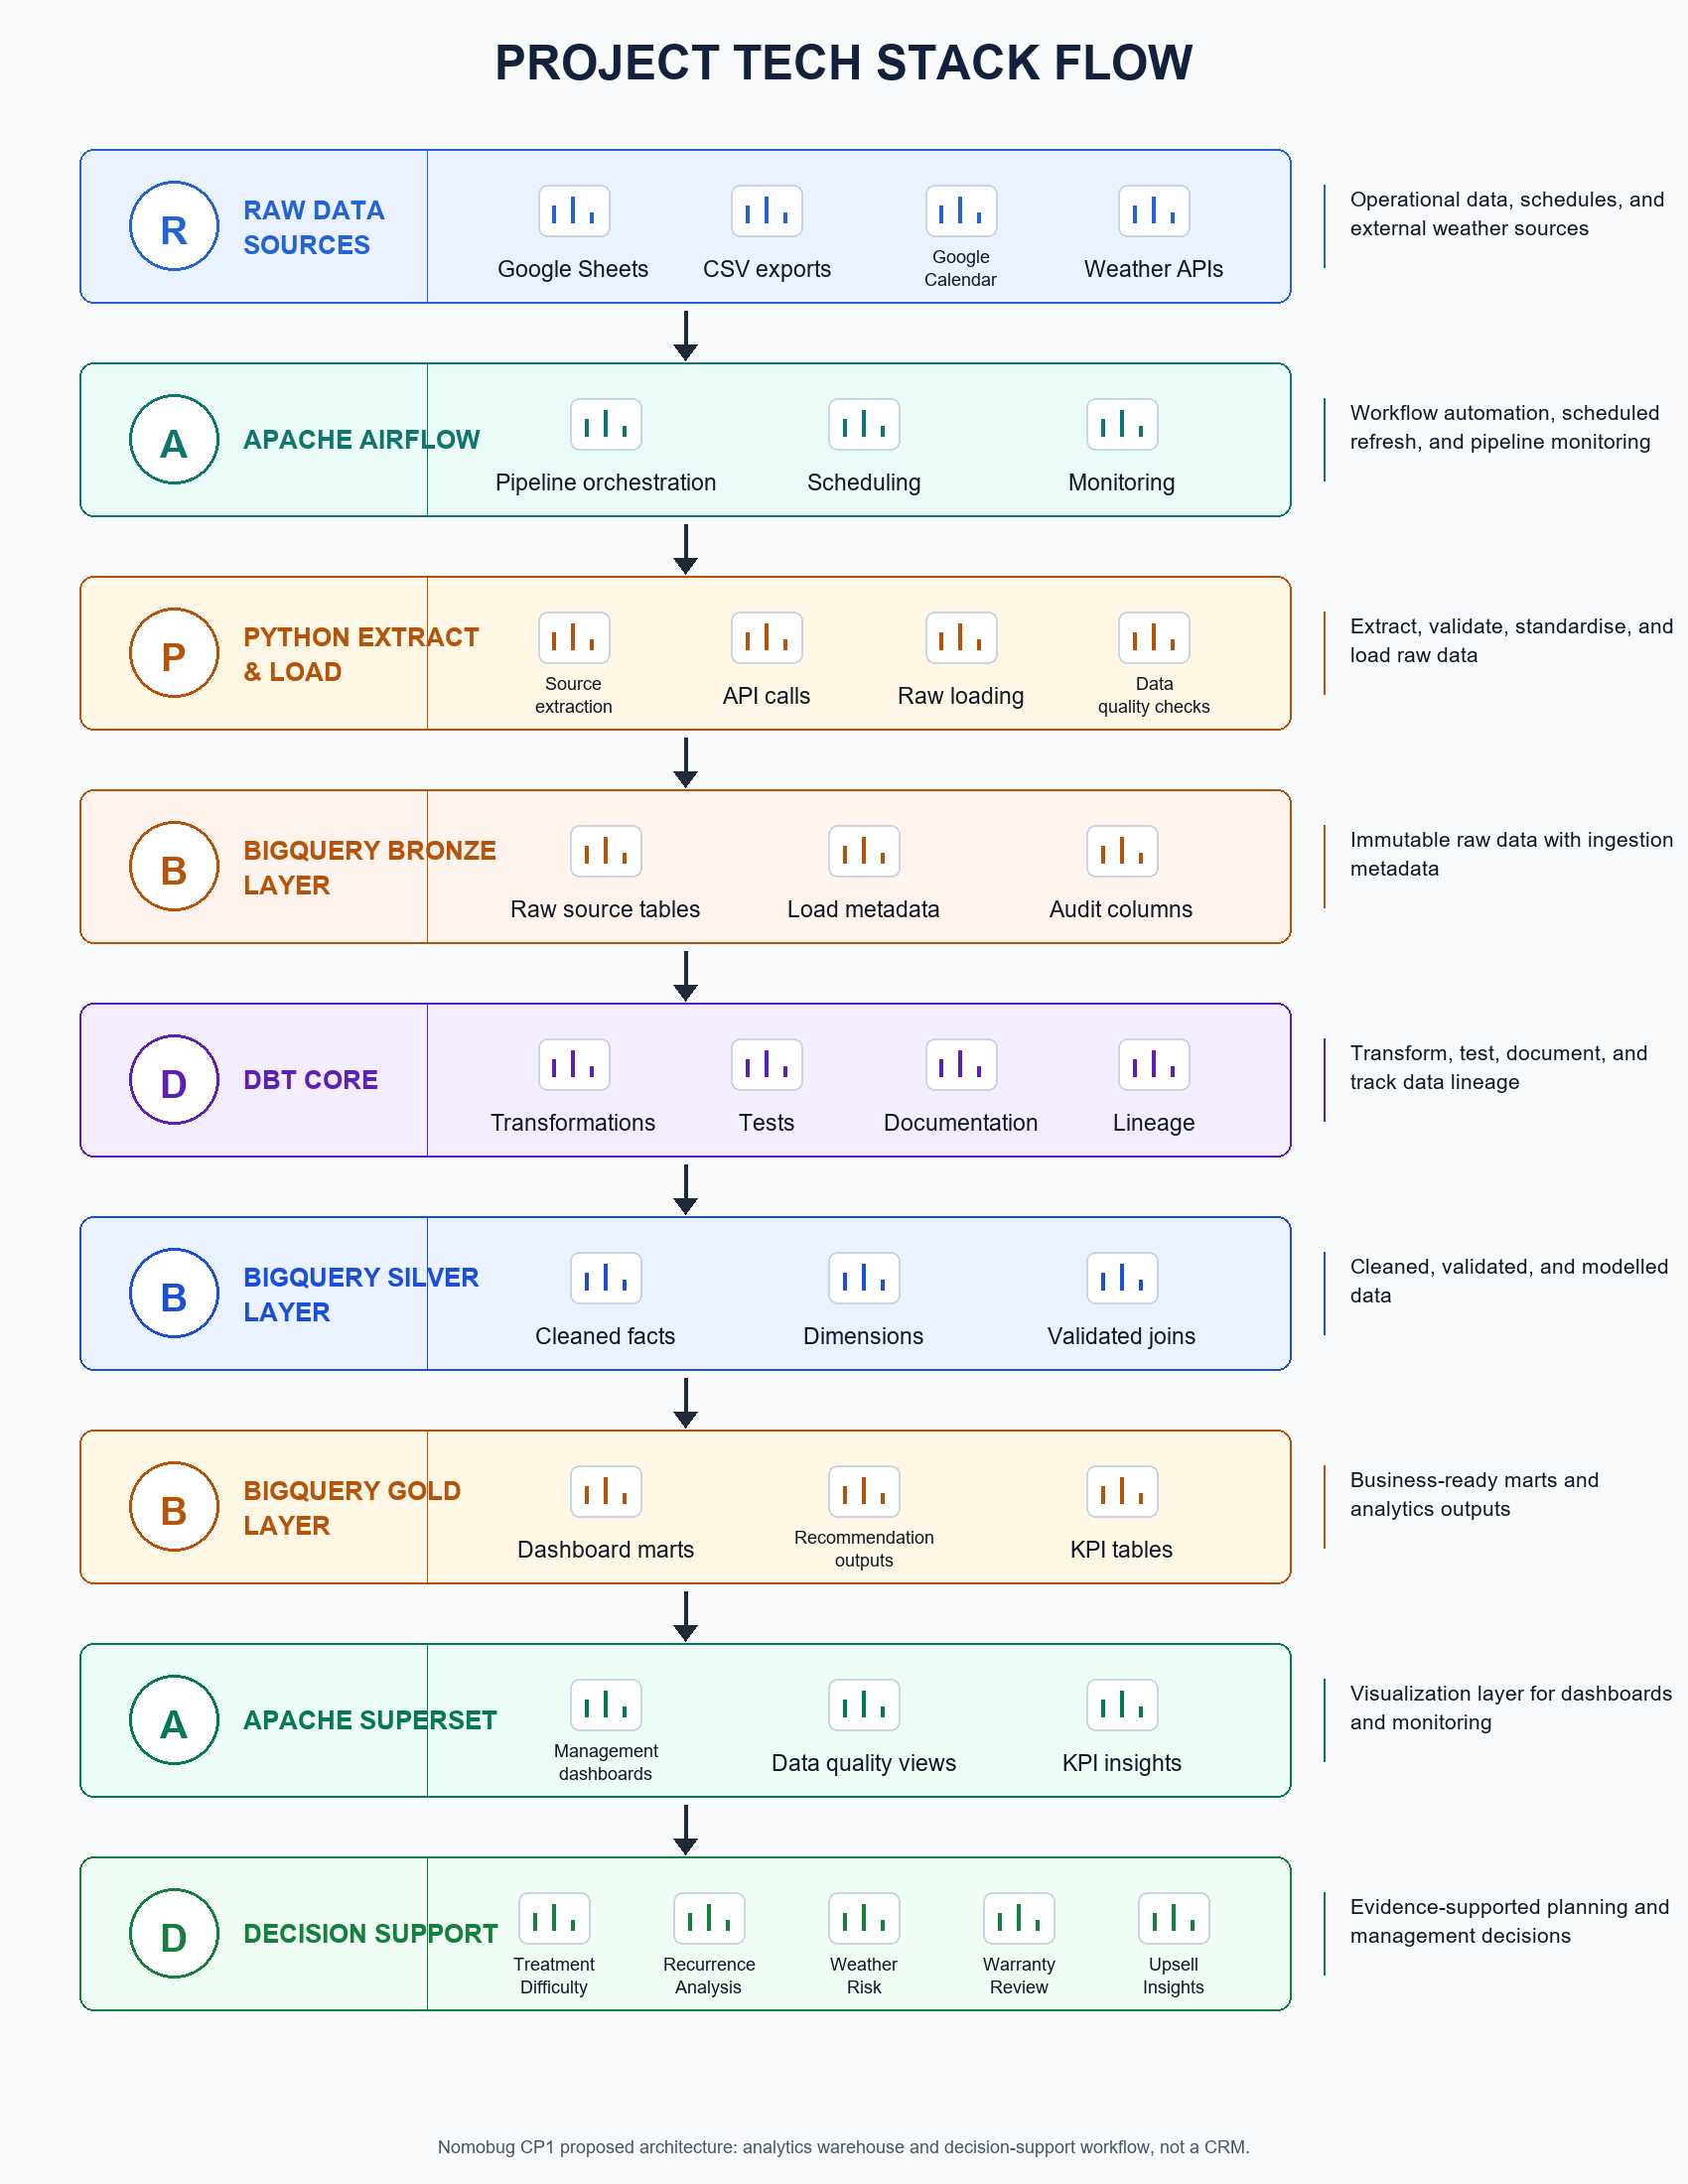
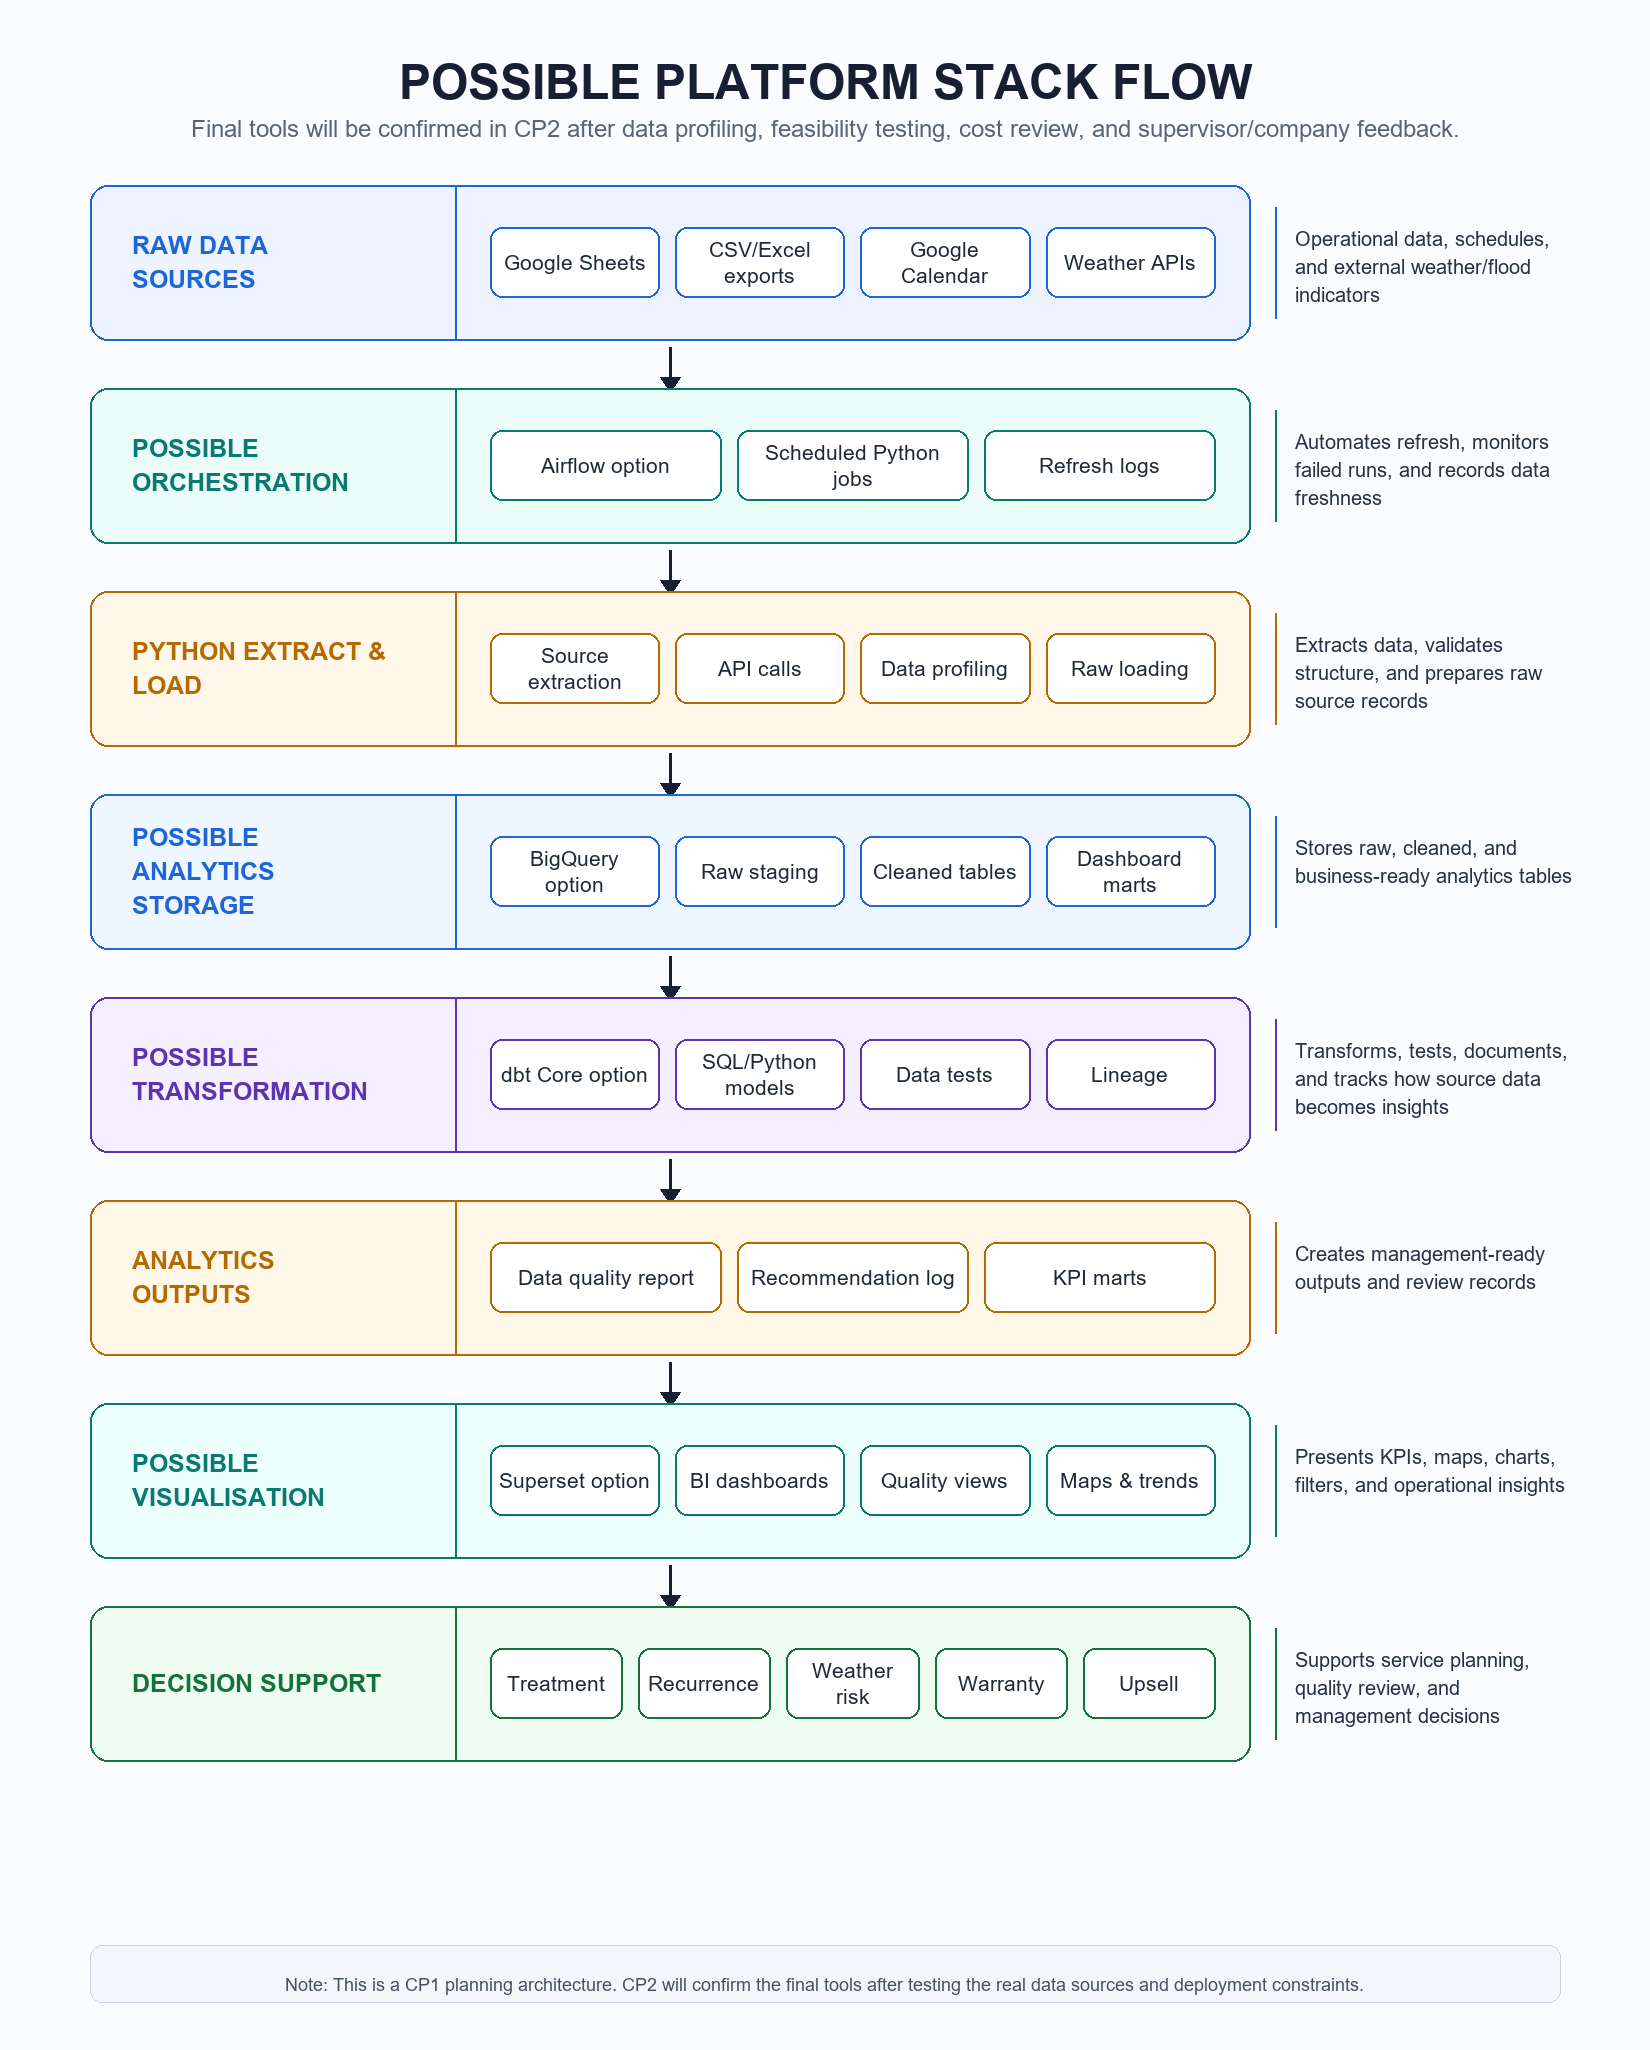
Make CP1 proposal platform flexible

diff --git a/PROJECT_BRIEF.md b/PROJECT_BRIEF.md
@@ -4,13 +4,13 @@
 
 **Weather-Aware Pest Control Decision-Support Dashboard**
 
-Using Airflow-orchestrated ELT, BigQuery, dbt Core, spatial hotspot detection, treatment difficulty analytics, and prescriptive intelligence for Nomobug Pest Control Services.
+Using a possible ELT/data engineering workflow, spatial hotspot detection, treatment difficulty analytics, and prescriptive intelligence for Nomobug Pest Control Services.
 
 ## CP1 and CP2 Boundary
 
 This project is currently in **Capstone Project 1 (CP1)**. CP1 focuses on the proposal, problem analysis, literature review, methodology, architecture design, work plan, expected outcomes, and evaluation plan.
 
-The actual system implementation will be carried out in **Capstone Project 2 (CP2)**. CP2 will involve building the Airflow-orchestrated ELT pipeline, BigQuery warehouse, dbt transformations and tests, Superset dashboards, analytics scripts, and evaluation with company users.
+The actual system implementation will be carried out in **Capstone Project 2 (CP2)**. CP2 will involve building the data extraction pipeline, analytics storage layer, transformation and testing logic, dashboards, analytics scripts, and evaluation with company users. Tools such as Airflow, BigQuery, dbt Core, Superset, Docker, and Ollama are possible platform choices, not fixed decisions at CP1 stage.
 
 ## Project Purpose
 
@@ -29,19 +29,23 @@ Google Sheets / CSV / Google Calendar
 Python Extract/Load Pipeline
         |
         v
-Apache Airflow Orchestration
+Possible Orchestration
+Airflow or scheduled Python jobs
         |
         v
-BigQuery Bronze Raw Tables
+Possible Analytics Storage
+BigQuery or another warehouse/database
         |
         v
-dbt Core Transformations and Tests
+Possible Transformations and Tests
+dbt Core or SQL/Python scripts
         |
         v
-BigQuery Silver Clean Tables and Gold Marts
+Cleaned Tables and Dashboard Marts
         |
         v
-Apache Superset Dashboards
+Possible BI Dashboards
+Superset or another BI tool
         |
         v
 Management Decision Support
@@ -50,40 +54,40 @@ Management Decision Support
 Future extension:
 
 ```text
-BigQuery analytics outputs
+Analytics outputs
         |
         v
-Local Ollama AI service
+Possible local AI explanation service
         |
         v
 Recommendation log and dashboard explanations
 ```
 
-## Main Technology Stack
+## Possible Platform Stack
 
 | Layer | Technology | Purpose |
 |---|---|---|
 | Raw data source | Google Sheets, CSV/Excel, Google Calendar | Company records and scheduling data |
-| Extract/load | Python, Pandas, BigQuery client | Extract Google Sheets, Calendar, weather APIs, and load Bronze tables |
-| Orchestration | Apache Airflow | Schedule, monitor, retry, and log pipeline tasks |
-| Data warehouse | BigQuery | Store Bronze raw, Silver cleaned, and Gold dashboard mart tables |
-| Transformation and tests | dbt Core | SQL transformations, tests, documentation, and lineage |
-| Dashboard | Apache Superset | Browser-based BI dashboards and filters |
-| Deployment support | Docker | Reproducible local services such as Superset, Python worker, and future Ollama |
-| Future AI | Ollama | Local AI-generated explanations and recommendations without paid API cost |
+| Extract/load | Python and Pandas | Extract Google Sheets, Calendar, weather APIs, and load raw staging tables |
+| Orchestration | Possible Apache Airflow or scheduled Python jobs | Schedule, monitor, retry, and log pipeline tasks if needed |
+| Analytics storage | Possible BigQuery or another analytics warehouse/database | Store raw, cleaned, and dashboard mart tables |
+| Transformation and tests | Possible dbt Core or SQL/Python scripts | SQL transformations, tests, documentation, and lineage |
+| Dashboard | Possible Apache Superset or another BI tool | Browser-based BI dashboards and filters |
+| Deployment support | Possible Docker setup | Reproducible local services if selected during CP2 |
+| Future AI | Possible local AI model such as Ollama | Local AI-generated explanations and recommendations without paid external API cost |
 
-## BigQuery Storage Design
+## Proposed Analytics Storage Design
 
-The data warehouse will use three layers:
+The analytics storage design will use three logical layers. BigQuery is one possible platform, but the final storage choice will be confirmed in CP2 after feasibility testing.
 
 1. **Staging tables**
-   Raw imported data from Google Sheets, CSV/Excel, Google Calendar, and weather sources. In the updated architecture this is the **Bronze** layer.
+   Raw imported data from Google Sheets, CSV/Excel, Google Calendar, and weather sources.
 
 2. **Cleaned core tables**
-   Standardised customer, service, warranty, refund, payment, upsell, area, pest, and calendar records. In the updated architecture this is the **Silver** layer.
+   Standardised customer, service, warranty, refund, payment, upsell, area, pest, and calendar records.
 
 3. **Analytics marts**
-   Dashboard-ready tables for area risk, treatment difficulty, recurrence windows, hotspot detection, upsell package fit, data quality, refresh status, and recommendations. In the updated architecture this is the **Gold** layer.
+   Dashboard-ready tables for area risk, treatment difficulty, recurrence windows, hotspot detection, upsell package fit, data quality, refresh status, and recommendations.
 
 ## Key Data Relationships
 
@@ -176,13 +180,13 @@ This helps the company understand whether dashboard insights are based on strong
 
 ## Scheduled Refresh
 
-The proposed system will use near-real-time scheduled refresh, not streaming real-time processing. Apache Airflow will be used in CP2 to orchestrate the main extraction, loading, dbt transformation, data test, weather enrichment, and refresh logging tasks.
+The proposed system will use near-real-time scheduled refresh, not streaming real-time processing. In CP2, the refresh workflow may be handled using Apache Airflow, scheduled Python jobs, warehouse scheduled queries, or another suitable scheduler depending on setup complexity and supervisor/company feedback.
 
 Possible refresh options:
 
-- Airflow DAG
+- Airflow DAG if selected
 - scheduled Python extract/load task
-- dbt model/test run
+- transformation/model test run
 - manual refresh during prototype testing
 
 This is enough because the main business questions are based on day/week/month trends, not second-by-second operations.
@@ -222,15 +226,15 @@ The Recommendation Log will store:
 - management action taken
 - later outcome
 
-This prepares the project for future local AI using Ollama. The analytics engine will compute the score, and Ollama can later explain the recommendation in plain language.
+This prepares the project for future local AI support. The analytics engine will compute the score, and a local model such as Ollama can later explain the recommendation in plain language.
 
 ## Expected CP2 Deliverables
 
 - Python extract/load pipeline
-- Apache Airflow orchestration
-- dbt transformations, tests, documentation, and lineage
-- BigQuery Bronze, Silver, and Gold tables
-- Superset dashboards
+- possible orchestration workflow
+- transformations, tests, documentation, and lineage
+- raw, cleaned, and dashboard-ready analytics tables
+- BI dashboards
 - data quality dashboard
 - weather enrichment output
 - treatment difficulty index
@@ -242,4 +246,4 @@ This prepares the project for future local AI using Ollama. The analytics engine
 
 ## One-Sentence Description
 
-This project proposes a weather-aware pest control decision-support dashboard that uses company operational data, Airflow-orchestrated ELT, BigQuery, dbt Core, Python analytics, Superset visualisation, and future local AI recommendations to help Nomobug improve service planning, recurrence monitoring, treatment difficulty analysis, and upsell strategy.
+This project proposes a weather-aware pest control decision-support dashboard that uses company operational data, Python-based data processing, a possible analytics warehouse, BI visualisation, and future local AI recommendations to help Nomobug improve service planning, recurrence monitoring, treatment difficulty analysis, and upsell strategy.

diff --git a/PROJECT_STATE.md b/PROJECT_STATE.md
@@ -1,6 +1,6 @@
 # Nomobug Capstone Project State
 
-Last updated: 2026-07-16
+Last updated: 2026-07-17
 
 ## Current Phase
 
@@ -22,33 +22,35 @@ The goal is to help management understand:
 - data quality and refresh status
 - recommendation history and action outcomes
 
-## Confirmed Stack
+## Possible Platform Stack
+
+Supervisor feedback on 2026-07-17: the CP1 methodology should not lock the project into one fixed platform too early. BigQuery, Airflow, dbt Core, Docker, Superset, and Ollama are now described as possible platform choices. The final CP2 stack will be confirmed after data profiling, feasibility testing, cost/setup review, and supervisor/company feedback.
 
 | Layer | Choice |
 |---|---|
 | Raw source | Google Sheets, CSV/Excel exports, Google Calendar |
-| Extract/load | Python, Pandas, BigQuery client |
-| Orchestration | Apache Airflow |
-| Transformation and tests | dbt Core |
-| Warehouse | BigQuery with Bronze/Silver/Gold layers |
-| Visualization | Apache Superset |
+| Extract/load | Python and Pandas, with the relevant API/warehouse client |
+| Orchestration | Possible Apache Airflow, or scheduled Python jobs if simpler |
+| Transformation and tests | Possible dbt Core, or SQL/Python transformation scripts |
+| Analytics storage | Possible BigQuery, or another suitable analytics warehouse/database |
+| Visualization | Possible Apache Superset, or another BI/dashboard platform |
 | Weather history | Open-Meteo Historical Weather API |
 | Weather forecast | Open-Meteo forecast first, with data.gov.my/MET as official warning support |
 | Flood indicator | Public InfoBanjir/JPS where extraction is reliable, otherwise optional/manual |
-| Local AI future work | Ollama |
-| Packaging | Docker for local reproducibility, not as the main database |
+| Local AI future work | Possible local model such as Ollama |
+| Packaging | Possible Docker setup for local reproducibility, not as the main database |
 
 ## CP2 Build Order
 
 1. Profile Google Sheets, CSV exports, and calendar data.
 2. Define flexible data contracts, column aliases, and data quality rules.
-3. Build Python extraction/loading scripts into BigQuery Bronze raw tables.
-4. Build dbt models and tests for Silver cleaned tables and Gold dashboard marts.
+3. Build Python extraction/loading scripts into raw staging tables.
+4. Build transformation models and tests for cleaned tables and dashboard marts.
 5. Add area/postcode coordinate lookup and historical weather enrichment.
-6. Create Airflow DAGs to orchestrate extraction, loading, dbt, testing, enrichment, and refresh logs.
-7. Build Superset dashboards from Gold marts only.
+6. Create a scheduled workflow to orchestrate extraction, loading, transformations, testing, enrichment, and refresh logs.
+7. Build BI dashboards from curated marts only.
 8. Add pipeline logging, data quality dashboard, and recommendation log.
-9. Add optional local Ollama explanation layer.
+9. Add optional local AI explanation layer.
 
 ## Analytics Methods
 
@@ -70,13 +72,14 @@ The current proposal file is `docs/Nomobug_Capstone_Proposal_CP1_Updated.docx`.
 
 Latest checks:
 
-- Added a project technical stack flow figure into Chapter 3.
+- Added a possible platform stack flow figure into Chapter 3.
 - Added a CP2 Gantt chart subsection into Chapter 4.
 - Created editable CP1/CP2 Gantt workbook at `docs/Nomobug_CP1_CP2_Gantt_Chart.xlsx`.
 - Created architecture image at `assets/nomobug_project_tech_stack_flow.png`.
 - Canva generation was attempted but blocked by Canva quota, so the final visual was generated locally.
 - Standardized the proposal formatting to Times New Roman, 12 pt body text, 1.5 line spacing, justified body paragraphs, and APA-style references.
-- Revised the proposal so CP1 warehouse/data-source sections read as planned logical designs rather than final implemented schemas.
+- Revised the proposal so CP1 warehouse/data-source/tool sections read as planned logical designs rather than final implemented schemas.
+- Updated the methodology after supervisor feedback so BigQuery, Airflow, dbt Core, Docker, Superset, and Ollama are presented as possible platforms, not locked CP2 decisions.
 - Replaced confusing appendices with clearer planning appendices for data sources, dashboard outputs, and proposed logical warehouse layers.
 - Added more organic in-text citations in Chapter 1 and strengthened citation support for BI, dashboards, data quality, weather-associated risk, and DSS significance.
 - 42 total reference entries after adding Airflow/dbt technical references.
@@ -88,10 +91,10 @@ Latest checks:
 Latest data-engineering direction:
 
 - Keep the existing proposal title.
-- Strengthen the methodology around an Airflow-orchestrated ELT pipeline.
-- Use Python for extraction/loading, BigQuery for the warehouse, dbt Core for SQL transformations/tests/lineage, and Superset for Gold-mart dashboards.
+- Strengthen the methodology around an ELT/data engineering pipeline, while keeping platform choices flexible for CP2.
+- Use Python for extraction/loading and evaluate possible platforms for orchestration, storage, transformations, dashboards, and local AI during CP2.
 - Use flexible data contracts rather than strict schema rejection because the company data is messy.
-- Include pipeline logs: `etl_run_log`, `source_contract_status`, `data_quality_log`, `record_match_log`, `weather_enrichment_log`, `dbt_test_results`, and `mart_refresh_status`.
+- Include pipeline logs such as `etl_run_log`, `source_contract_status`, `data_quality_log`, `record_match_log`, `weather_enrichment_log`, transformation test results, and `mart_refresh_status`.
 
 ## Latest Logbook Status
 
@@ -102,7 +105,7 @@ Latest checks:
 - Logbook updated through Week 10.
 - Week 10 updated with the CP1/CP2 Gantt workbook and project technical stack flow diagram preparation.
 - Week 1-4 date ranges corrected to May 2026.
-- Week 5-10 entries added as a natural progression from CRM exploration to analytics, data understanding, calendar parsing, weather research, architecture selection, proposal strengthening, and Airflow/dbt data-engineering scope.
+- Week 5-10 entries added as a natural progression from CRM exploration to analytics, data understanding, calendar parsing, weather research, architecture selection, proposal strengthening, and data-engineering scope.
 - Word export check passed after the latest update.
 
 ## Important Wording Rules
@@ -148,7 +151,7 @@ Commit:
 - `docs/Nomobug_Capstone_Proposal_CP1_Updated.docx`: current CP1 proposal
 - `docs/Logbook_Template.docx`: current CP1 logbook updated through Week 10
 - `docs/Nomobug_CP1_CP2_Gantt_Chart.xlsx`: editable CP1 and CP2 Gantt workbook
-- `assets/nomobug_project_tech_stack_flow.png`: project technical stack flow image used in the report
+- `assets/nomobug_project_tech_stack_flow.png`: possible platform stack flow image used in the report
 - `scripts/fetch_calendar_events.py`: Google Calendar extraction/parser script
 - `scripts/test_open_meteo_history.py`: Open-Meteo historical API test script
 
@@ -160,4 +163,4 @@ Commit:
 4. Create a data source mapping sheet from actual Google Sheets tabs.
 5. Confirm which exact Google Calendar fields are reliable.
 6. Build safe synthetic samples for GitHub.
-7. Prepare CP2 starter tasks: BigQuery project setup, dbt Core project skeleton, Airflow Docker setup, Superset local Docker setup, and Python extract/load skeleton.
+7. Prepare CP2 starter tasks: Python extract/load skeleton, data profiling, possible warehouse setup, possible transformation project skeleton, possible workflow scheduler setup, and possible BI dashboard setup.